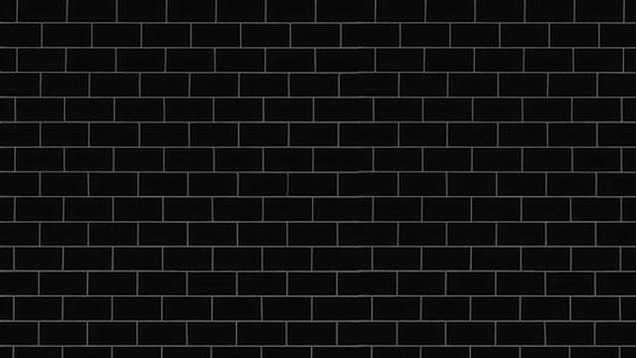
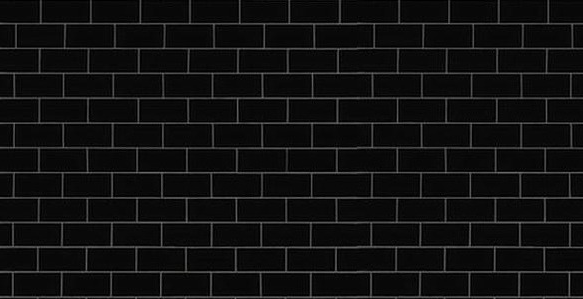
Add music page

Changed region(s): [[0.0, 0.0, 1.0, 1.0], [0.0, 0.3913, 0.0309, 0.4214]]

diff --git a/music.html b/music.html
@@ -1,0 +1,125 @@
+<!DOCTYPE html>
+<html>
+
+<head>
+    <meta charset="utf-8">
+    <meta name="viewport" content="width=device-width, initial-scale=1">
+    <link rel="stylesheet" href="https://maxcdn.bootstrapcdn.com/bootstrap/3.3.7/css/bootstrap.min.css">
+    <link rel="stylesheet" href="https://use.fontawesome.com/releases/v5.0.8/css/all.css" type="text/css" />
+    <link rel="stylesheet" href="assets/css/style.css" type="text/css" />
+</head>
+
+<body>
+    <header>
+        <nav class="navbar navbar-default">
+            <div class="container-fluid">
+                <div class="navbar-header">
+                    <a class="navbar-center navbar-brand" href="index.html"><img src="./assets/images/logo-inverted.png" alt="Pink Floyd"></img></a>
+                    <button type="button" class="navbar-toggle" data-toggle="collapse" data-target=".navbar-list-collapse">
+                         <span class="sr-only">Toggle navigation</span>
+                         <span class="icon-bar"></span>
+                         <span class="icon-bar"></span>
+                         <span class="icon-bar"></span>
+                    </button>
+                </div>
+                <div class="navigation navbar-right">
+                    <div class="collapse navbar-collapse navbar-list-collapse">
+                        <ul class="nav navbar-nav">
+                            <li><a href="music.html">Music</a></li>
+                            <li><a href="videos.html">Videos</a></li>
+                            <li><a href="photos.html">Photos</a></li>
+                            <li><a href="tour.html">Tour</a></li>
+                            <li><a href="contact.html">Contact</a></li>
+                        </ul>
+                    </div>
+                </div>
+            </div>
+        </nav>
+    </header>
+    <div class="container-fluid content-body wall-bg">
+        <div class="container-wrapper">
+            <section class="music">
+                <div class="row col-xs-12">
+                    <div class="section-header">
+                        <h2 id="music-title">Music</h2>
+                    </div>
+                </div>
+                <span class="row">
+                    <div class="col-xs-12 col-sm-6 col-md-6 col-lg-4 spotify size-1" id="album6">
+                        <iframe src="https://open.spotify.com/embed?uri=spotify:album:21jUB9RqplD6OqtsTjKBnO"  frameborder="0" allowtransparency="true" allow="encrypted-media"></iframe>
+                    </div>
+                    <div class="col-xs-12 col-sm-6 col-md-6 col-lg-4 spotify size-1" id="album7">
+                        <iframe src="https://open.spotify.com/embed?uri=spotify:album:6uvBKDGlJAYLH5Vy6RQVsc"  frameborder="0" allowtransparency="true" allow="encrypted-media"></iframe>
+                    </div>
+                    <div class="col-xs-12 col-sm-6 col-md-6 col-lg-4 spotify size-1" id="album11">
+                        <iframe src="https://open.spotify.com/embed?uri=spotify:album:5c1ZTzT4oSkiiFS4wmEuOe"  frameborder="0" allowtransparency="true" allow="encrypted-media"></iframe>
+                    </div>
+                    <div class="col-xs-12 col-sm-6 col-md-6 col-lg-4 spotify" id="album10">
+                        <iframe src="https://open.spotify.com/embed?uri=spotify:album:7yKRvvqspSxfLkr7C7RaAI" frameborder="0" allowtransparency="true" allow="encrypted-media"></iframe>
+                    </div>
+                    <div class="col-xs-12 col-sm-6 col-md-6 col-lg-4 spotify" id="album14">
+                        <iframe src="https://open.spotify.com/embed?uri=spotify:album:5rwuexO7oiRJKqzZrd1upQ" frameborder="0" allowtransparency="true" allow="encrypted-media"></iframe>
+                    </div>
+                    <div class="col-xs-12 col-sm-6 col-md-6 col-lg-4 spotify size-2" id="album8">
+                        <iframe src="https://open.spotify.com/embed?uri=spotify:album:2WT1pbYjLJciAR26yMebkH" frameborder="0" allowtransparency="true" allow="encrypted-media"></iframe>
+                    </div>
+                    <div class="col-xs-12 col-sm-6 col-md-6 col-lg-4 spotify size-3" id="album2">
+                        <iframe src="https://open.spotify.com/embed?uri=spotify:album:7wzStEU2keGohEu8jpVMZW" frameborder="0" allowtransparency="true" allow="encrypted-media"></iframe>
+                    </div>
+                    <div class="col-xs-12 col-sm-6 col-md-6 col-lg-4 spotify size-3" id="album15">
+                        <iframe src="https://open.spotify.com/embed?uri=spotify:album:0Fke5eiQ6lszQHlwiFygqn" frameborder="0" allowtransparency="true" allow="encrypted-media"></iframe>
+                    </div>
+                    <div class="col-xs-12 col-sm-6 col-md-6 col-lg-4 spotify size-2" id="album9">
+                        <iframe src="https://open.spotify.com/embed?uri=spotify:album:3HZKOTmpigZcWHxACjENyh" frameborder="0" allowtransparency="true" allow="encrypted-media"></iframe>
+                    </div>
+                    <div class="col-xs-12 col-sm-6 col-md-6 col-lg-4 spotify size-3" id="album3">
+                        <iframe src="https://open.spotify.com/embed?uri=spotify:album:1tWgv9v78StWukBRBVNyxA" frameborder="0" allowtransparency="true" allow="encrypted-media"></iframe>
+                    </div>
+                    <div class="col-xs-12 col-sm-6 col-md-6 col-lg-4 spotify size-4" id="album4">
+                        <iframe src="https://open.spotify.com/embed?uri=spotify:album:5ChHkKb5VhZe0pgQRsvpek" frameborder="0" allowtransparency="true" allow="encrypted-media"></iframe>
+                    </div>
+                    <div class="col-xs-12 col-sm-6 col-md-6 col-lg-4 spotify size-4" id="album13">
+                        <iframe src="https://open.spotify.com/embed?uri=spotify:album:6xWRCFsaqoYj3ZwxMkCE85" frameborder="0" allowtransparency="true" allow="encrypted-media"></iframe>
+                    </div>
+                    <div class="col-xs-12 col-sm-6 col-md-6 col-lg-4 spotify" id="album12">
+                        <iframe src="https://open.spotify.com/embed?uri=spotify:album:4uuyGVEZpYaGB1HtewAogW" frameborder="0" allowtransparency="true" allow="encrypted-media"></iframe>
+                    </div>
+                    <div class="col-xs-12 col-sm-6 col-md-6 col-lg-4 spotify" id="album1">
+                        <iframe src="https://open.spotify.com/embed?uri=spotify:album:0fXAlQ9wTG2glNJvZEkBZc" frameborder="0" allowtransparency="true" allow="encrypted-media"></iframe>
+                    </div>
+                    <div class="col-xs-12 col-sm-6 col-sm-offset-3 col-md-6 col-md-offset-3 col-lg-4 col-lg-offset-0 spotify" id="album5">
+                        <iframe src="https://open.spotify.com/embed?uri=spotify:album:6WaIQHxEHtZL0RZ62AuY0g" frameborder="0" allowtransparency="true" allow="encrypted-media"></iframe>
+                    </div>
+                </span>
+            </section>
+        </div>
+    </div>
+    <footer class="container-fluid">
+        <div class="footer  ">
+            <div class="col-sm-4 social">
+                <ul class="list-inline social-links">
+                    <li><a target="_blank" href="https://en-gb.facebook.com/pinkfloyd/"><i class="fab fa-facebook"></i></a></li>
+                    <li><a target="_blank" href="https://twitter.com/pinkfloyd"><i class="fab fa-twitter"></i></a></li>
+                    <li><a target="_blank" href="https://www.youtube.com/channel/UCY2qt3dw2TQJxvBrDiYGHdQ"><i class="fab fa-youtube"></i></a></li>
+                    <li><a target="_blank" href="https://www.instagram.com/pinkfloyd/?hl=en"><i class="fab fa-instagram"></i></a></li>
+                    <li><a target="_blank" href="https://open.spotify.com/artist/0k17h0D3J5VfsdmQ1iZtE9"><i class="fab fa-spotify"></i></a></li>
+                    <li><a target="_blank" href="https://itunes.apple.com/us/artist/pink-floyd/487143"><i class="fab fa-itunes-note"></i></a></li>
+                </ul>
+            </div>
+            <div class="col-sm-4 footer-logo">
+                <img src="./assets/images/logo-inverted.png"></img>
+            </div>
+            <div class="col-sm-4 footer-right">
+                <p class="copyright"><i class="far fa-copyright"></i><a target="_blank" href="https://www.sonymusic.com/"> Sony Music Entertainment</a> & <a target="_blank" href="https://www.universalmusic.com/label/emi/">EMI Music</a>. All Rights Reserved.
+                    <br>Music under license to Pink Floyd Music Ltd.
+                </p>
+            </div>
+        </div>
+
+    </footer>
+
+    <script src="https://code.jquery.com/jquery-3.2.1.min.js" integrity="sha256-hwg4gsxgFZhOsEEamdOYGBf13FyQuiTwlAQgxVSNgt4=" crossorigin="anonymous"></script>
+    <script src="https://maxcdn.bootstrapcdn.com/bootstrap/3.3.7/js/bootstrap.min.js" integrity="sha384-Tc5IQib027qvyjSMfHjOMaLkfuWVxZxUPnCJA7l2mCWNIpG9mGCD8wGNIcPD7Txa" crossorigin="anonymous"></script>
+</body>
+
+</html>

diff --git a/assets/css/style.css b/assets/css/style.css
@@ -162,99 +162,130 @@
  .info-container {
   padding-left: 10px;
   padding-right: 10px;
+
+
+ /*---------------------------------------------------------------------Music*/
+.wall-bg{
+   background: url('../images/wall6.jpg') repeat center center fixed;
+  -webkit-background-size: cover;
+  -moz-background-size: cover;
+  -o-background-size: cover;
+  background-size: auto;
+}
+
+#music-title {
+ margin-top: 20px;
+ margin-bottom: 20px;
+ color: #ffffff;
+}
+
+ .spotify>iframe {
+  width: 100%;
+
  }
 
- #band-info {
-  padding-left: 30px;
-  padding-right: 30px;
+ .size-1>iframe {
+  height: 260px;
  }
 
- span.band-info.formatting-p {
-  text-align: justify;
-  padding-bottom: 25px;
-  padding-left: 30px;
-  padding-right: 30px;
-  font-family: "Habibi", sans-serif;
+
+ #album10>iframe {
+  height: 300px;
  }
 
- span.band-info.formatting-p>p {
-  padding-left: 0;
-  padding-right: 0;
+
+ #album14>iframe {
+  height: 340px;
  }
 
- #middle {
-  padding-left: 40px;
-  padding-right: 40px;
+ .size-2>iframe {
+  height: 440px;
  }
 
- #bottom {
-  padding-left: 40px;
-  padding-right: 40px;
+ .size-3>iframe {
+  height: 460px;
  }
 
- @media (max-width: 768px) {
-  .band-photo {
-   background-size: cover;
-   
-  }
-  
-.band-photo>img {
- padding-left: 0;
+ .size-4>iframe {
+  height: 520px;
  }
- 
- #middle {
-  padding-bottom: 0;
+
+ #album12>iframe {
+  height: 620px;
+ }
+
+ #album1>iframe {
+  height: 790px;
+ }
+
+ #album5>iframe {
+  height: 960px;
+ }
+
+@media (min-width: 768px) {
+  #album11>iframe {
+  height: 300px;
+ }
+ #album14>iframe {
+  height: 440px;
+ }
+ #album9>iframe {
+  height: 460px;
+ }
+  #album12>iframe {
+  height: 790px;
  }
 }
 
- @media (min-width: 768px) {
-  .photo-container {
-   width: 200rem;
-  }
-  
-  figure.band-photo{
-   padding-left: 50px;
-   padding-right: 50px;
-   display: inline-block;
-  }
-  
-  figure > img  {												 
-   width: 100%;
-  }
-  
-  figcaption {
-   padding-left: 15px;
-  }
-
-  span.band-info {
-   padding-right: 65px;
-  }
-
-  #band-info {
-   padding-left: 65px;
-  }
-
-  #about-pic {
-   padding-right: 85px;
-   padding-left: 25px;
-  }
-  
- /* .band-info.formatting-p {
-   padding-left: 50px;
-  } */
-  
- span.band-info.formatting-p {
-  text-align: justify;
-  padding-bottom: 25px;
-  padding-left: 65px;
-  padding-right: 65px;
-  font-family: "Habibi", sans-serif;
+ @media (min-width: 992px) {
+  #album11>iframe {
+  height: 440px;
  }
- 
- #middle {
-  padding-left: 70px;
-  padding-right: 70px;
-  padding-bottom: 0;
+ #album10>iframe {
+    height: 440px;
+ }
+  #album14>iframe {
+   height: 440px;
+  }
+  #album9>iframe {
+   height: 520px;
+  }
+  #album3>iframe {
+    height: 520px;
+  }
+  #album12>iframe {
+   height: 960px;
+  }
+  #album1>iframe {
+   height: 960px;
+  }
+}  
+
+ @media (min-width: 1200px) {
+  #album11>iframe {
+  height: 260px;
+  }
+  #album10>iframe {
+    height: 440px;
+  }
+  #album14>iframe {
+   height: 440px;
+  }
+  #album9>iframe {
+   height: 460px;
+  }
+  #album3>iframe {
+    height: 520px;
+  }
+  #album12>iframe {
+   height: 960px;
+  }
+  #album1>iframe {
+   height: 960px;
+  }
+ }  
+
+
  }
  
  #bottom {
